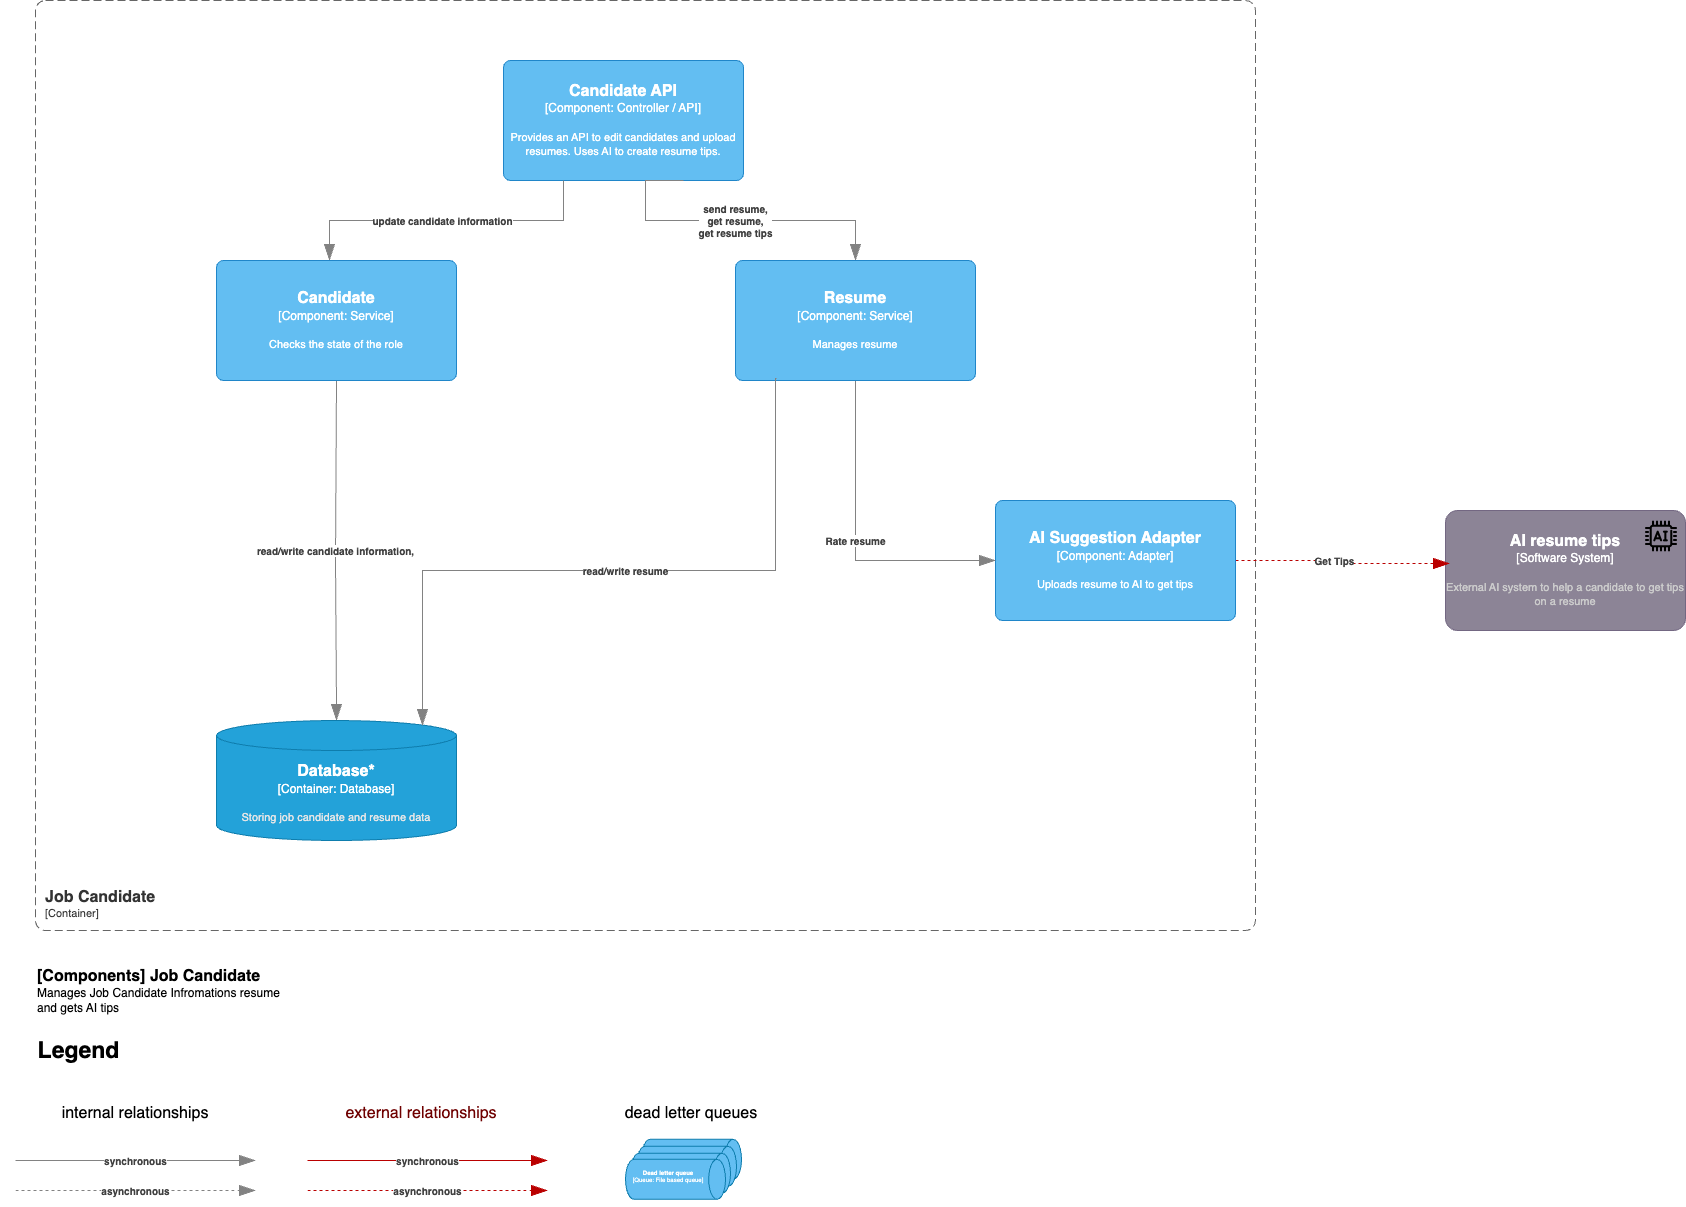
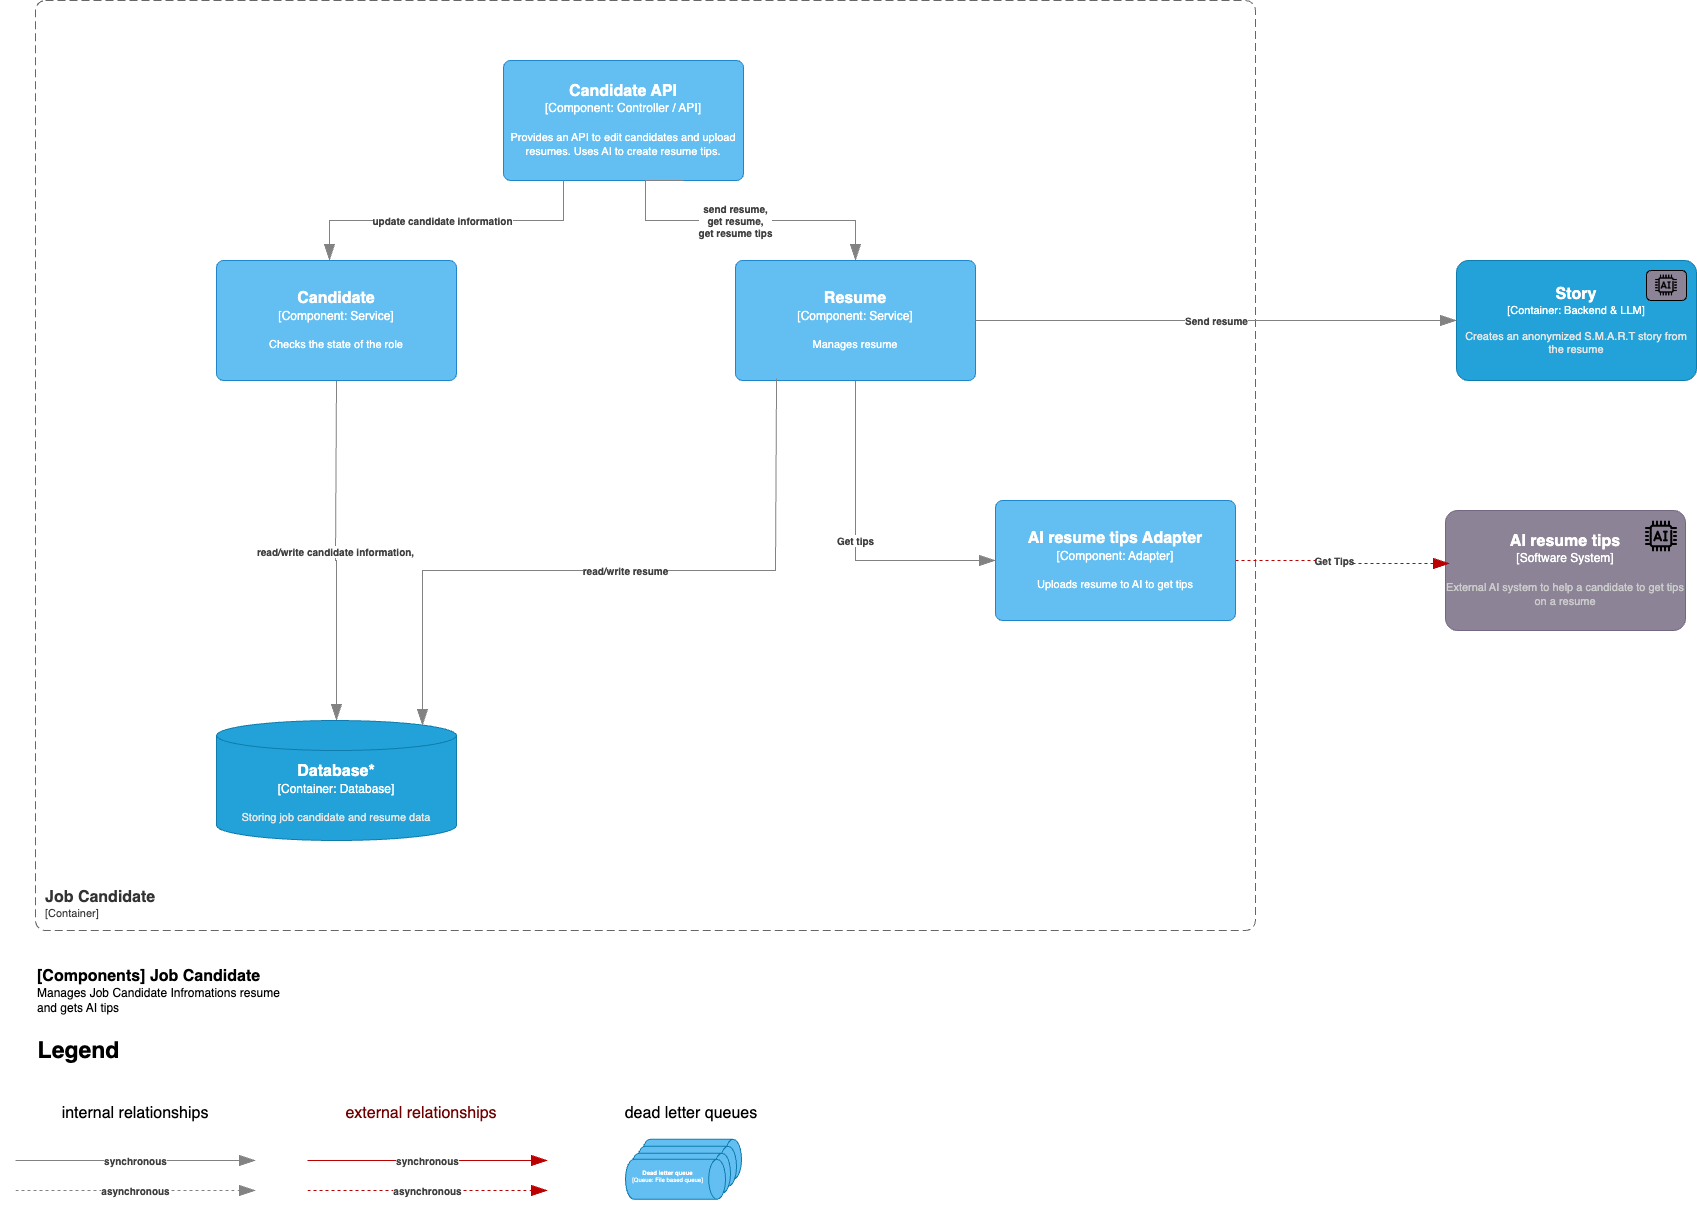
Update C3 Models

diff --git a/C4/C3-components-job-candidate.md b/C4/C3-components-job-candidate.md
@@ -1,0 +1,39 @@
+# Components Diagram (C3) - Job Candidate
+
+In the C4 model, the C3 diagrams show how components within a container interact to manage different processes.
+
+For the **Job Candidate Management** container, we want to outline how candidates submit their resumes, request AI-based tips, and manage their data.
+
+### Job Candidate Overview
+
+- **AI-Powered Resume Tips**  
+  The resume submission process allows candidates to request feedback through the AI-based **Resume Tips Adapter**, which provides suggestions to improve their resume. Once the tips are returned, they are passed back to the **Resume Service** and stored in the job candidate's record.
+
+![Components Diagram (C3) - Job Candidate](/C4/images/C3-components-job-candidate.png)
+
+## Data Flow
+
+### Requesting AI Resume Tips
+
+1. The **Candidate** requests resume tips through the **Candidate API**.
+2. The **Candidate API** forwards the request to the **Resume Service**.
+3. The **Resume Service** invokes the **AI Resume Tips Adapter**.
+4. The **AI Resume Tips Adapter** sends the resume data to the **AI Resume Tips System**.
+5. The **AI Resume Tips System** generates the tips and sends them back to the **AI Resume Tips Adapter**.
+6. The **AI Resume Tips Adapter** passes the tips back to the **Resume Service**.
+7. The **Resume Service** stores the resume tips in the **Job Candidate Database** for future reference by the candidate.
+
+### Submitting a Resume for Anonymization
+
+1. The **Candidate** submits their resume through the **Candidate API**.
+2. The **Candidate API** forwards the resume to the **Resume Service**.
+3. The **Resume Service** sends the resume to the **Story Container**.
+4. The **Story Container** handles the anonymization of the resume data.
+5. Once anonymized, the **Story Container** returns the anonymized resume to the **Resume Service**.
+6. The **Resume Service** stores the anonymized resume in the **Job Candidate Database**.
+
+### Managing Candidate Information
+
+1. The **Candidate** can update or modify their information through the **Candidate API**.
+2. The **Candidate API** communicates with the **Candidate Service**, which accesses and updates the **Job Candidate Database**.
+3. The **Candidate Service** retrieves or stores the updated data in the database as needed.

diff --git a/C4/C3-components-story.md b/C4/C3-components-story.md
@@ -1,0 +1,30 @@
+# Components Diagram (C3) - Story
+
+In the C4 model, the C3 diagrams highlight how the components within a container operate and interact.
+
+For the Story Processing container, we want to show how we incorporate the characteristics of *automation* and *data anonymization*.
+
+### Story Processing Overview
+
+- **AI-Driven Automation**  
+  The story processing pipeline leverages AI-based adapters to automate the rating and anonymization of job candidate resumes, as described in [ADR-006 AI Models run on separate containers](/ADR/ADR-006-ai-models-run-on-separate-containers.md). The process ensures consistency and efficiency in the handling of candidate data.
+
+![Components Diagram (C3) - Story Processing](/C4/images/C3-components-story.png)
+
+## Data flow
+
+### Sending a Resume for Story
+
+1. The **Candidate** container submits a resume through the system interface.
+2. The resume is sent to the **Story API**.
+3. The **Story API** forwards it to the **Resume Service**.
+4. The **Resume Service** forwards it to the **AI Anonymize Adapter**.
+5. The **AI Anonymize Adapter** sends it to the **AI Anonymize System**.
+
+### Storing the Story
+
+1. Once the **AI Anonymize System** anonymizes the resume, it returns the processed story to the **AI Anonymize Adapter**, which sends the story back to the **Resume Service**.
+2. The **Resume Service** (or **Story Processor**) stores the anonymized story directly in the **Matching Database** (or **Central Matching Database**) for further use in the matching process.
+3. In case of processing failures, the resume is queued for retry, ensuring no data is lost during the process.
+
+
